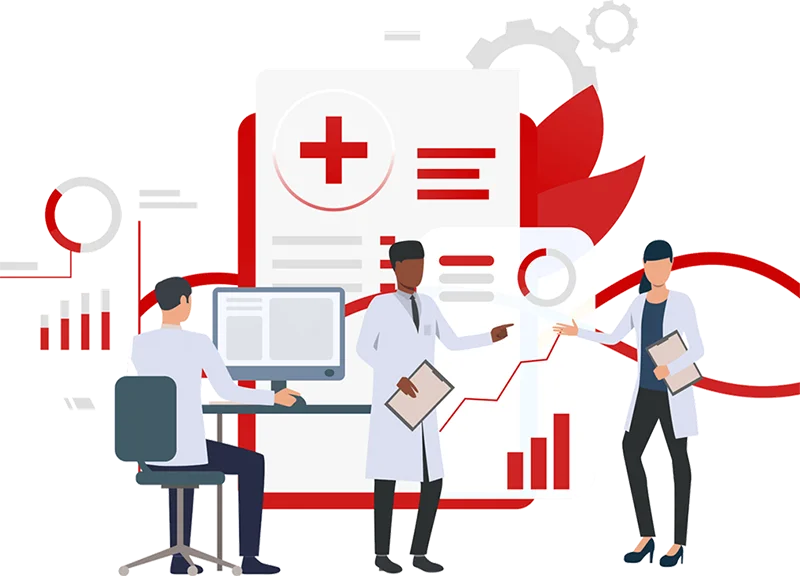
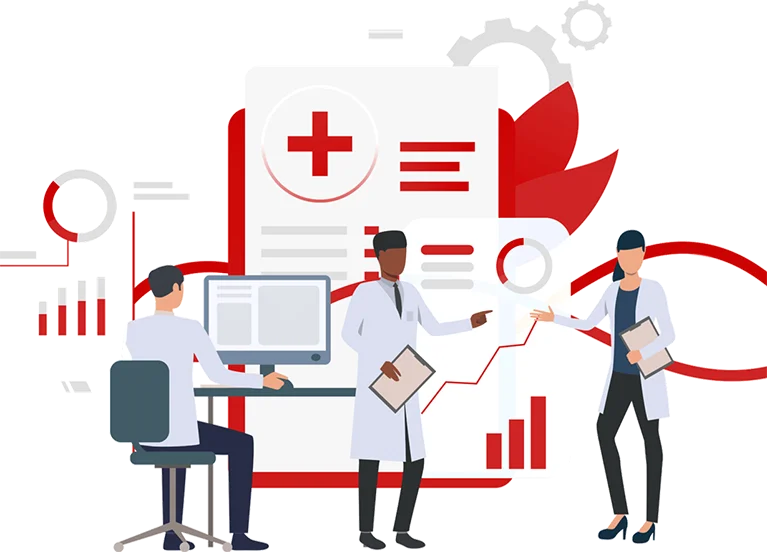
Changed image source for tablet device.

Changed region(s): [[0.3598, 0.8315, 0.4498, 0.8623], [0.5698, 0.6775, 0.6297, 0.7083], [0.5398, 0.308, 0.5997, 0.3388]]

diff --git a/docs/index.html b/docs/index.html
@@ -1,1 +1,1 @@
-<!doctype html><html lang="en"><head><meta charset="UTF-8"><meta http-equiv="X-UA-Compatible" content="IE=edge"><meta name="viewport" content="width=device-width,initial-scale=1"><title>Aviat - Sistem Informasi dan Aset Manajemen Rumah Sakit Online</title><link rel="shortcut icon" href="assets/images/aviat-logo.webp" type="image/x-icon"><link rel="stylesheet preload" href="https://cdnjs.cloudflare.com/ajax/libs/font-awesome/6.1.1/css/all.min.css" integrity="sha512-KfkfwYDsLkIlwQp6LFnl8zNdLGxu9YAA1QvwINks4PhcElQSvqcyVLLD9aMhXd13uQjoXtEKNosOWaZqXgel0g==" crossorigin="anonymous" referrerpolicy="no-referrer"/><script defer="defer" src="main.79529d04c2fa1e99ca75.js"></script><link href="styles.79529d04c2fa1e99ca75.css" rel="stylesheet"></head><body><header class="site-header"><div class="wrapper"><nav><ul class="menu"><li class="logo"><a href="#"><img src="assets/images/aviat-logo.webp"></a></li><li class="item"><a href="#">About</a></li><li class="item has-submenu"><a tabindex="0">Services</a><ul class="submenu"><li class="subitem"><a href="#">SIMRS (Sistem Informasi Manajemen Rumah Sakit)</a></li><li class="subitem"><a href="#">SIMKlinik (Sistem Informasi Manajemen Klinik)</a></li><li class="subitem"><a href="#">SIREM (Sistem Penyimpanan Dokumen Digital Rekam Medis)</a></li><li class="subitem"><a href="#">Aviat Telemedis</a></li><li class="subitem"><a href="#">Aviat AI for Health</a></li><li class="subitem"><a href="#">Kioska</a></li></ul></li><li class="item"><a href="#">Blog</a></li><li class="item"><a href="#">Contact</a></li><li class="item"><a href="#"><i class="fa-solid fa-search"></i></a></li><li class="item button"><a class="btn" href="#">Preview Modul</a></li><li class="item button secondary"><a class="btn" href="#">Request Demo</a></li><li class="toggle"><a href="#"><i class="fas fa-bars"></i></a></li></ul></nav></div></header><div class="large-hero page-section"><picture></picture><div class="wrapper"><div class="row"><div class="row__medium-6"><h1 class="large-hero__title">The Best Solution for Your Healthcare Information System</h1><p class="large-hero__description">AVIAT adalah sebuah Sistem Manajemen Rumah Sakit yang terintegrasi dan mampu mendukung keseluruhan proses yang ada dalam pelayanan rumah sakit.</p><div class="large-hero__cta"><a href="#" class="btn btn--red btn--large">Selengkapnya</a></div></div><div class="row__medium-6"><picture><source srcset="assets/images/aviat-home--desktop.webp 1010w" media="(min-width: 1010px)"><source srcset="assets/images/aviat-home--tablet.webp 800w" media="(min-width: 800px)"><img srcset="assets/images/aviat-home--smartphone.webp 530w" alt="Aviat - Sistem Informasi Manajemen Rumah Sakit"></picture></div></div></div></div><div class="site-service page-section"><div class="wrapper"><div class="row"><h2 class="headline headline--centered">Layanan <strong>Aviat</strong></h2><div class="row__medium-4"><div class="service"><div class="service__icon"><img src="assets/images/aviat-simrs.webp" alt=""></div><h3 class="service__title">Aviat SIMRS</h3><p class="service__description">Sistem Informasi Manajemen Rumah Sakit</p></div></div><div class="row__medium-4"><div class="service"><div class="service__icon"><img src="assets/images/aviat-simklinik.webp" alt=""></div><h3 class="service__title">Aviat SIMKlinik</h3><p class="service__description">Sistem Informasi Manajemen Klinik</p></div></div><div class="row__medium-4"><div class="service"><div class="service__icon"><img src="assets/images/aviat-sirem.webp" alt=""></div><h3 class="service__title">SIREM</h3><p class="service__description">Sistem Informasi Rekam Medis</p></div></div></div><div class="row"><div class="row__medium-4"><div class="service"><div class="service__icon"><img src="assets/images/aviat-telemedis.webp" alt=""></div><h3 class="service__title">Aviat Telemedis</h3><p class="service__description">Telekonsultasi untuk Layanan Kesehatan</p></div></div><div class="row__medium-4"><div class="service"><div class="service__icon"><img src="assets/images/aviat-ai.webp" alt=""></div><h3 class="service__title">Aviat AI for Health</h3><p class="service__description">Kecerdasan Buatan (AI) untuk Radiologi</p></div></div><div class="row__medium-4"><div class="service"><div class="service__icon"><img src="assets/images/aviat-kioska.webp" alt=""></div><h3 class="service__title">Kioska</h3><p class="service__description">Alat Antrean</p></div></div></div></div></div><div class="site-blog page-section"><div class="wrapper"><div class="row"><h2 class="headline headline--centered">Blog</h2><div class="row__large-4"><article class="post"><a href="" class="post__thumbnail"><div class="post__thumbnail-inner"><img src="assets/images/blogpost-1.webp" alt=""></div></a><div class="post__content"><a href="#"><h2>Manajemen Pelayanan Kesehatan Efisien dengan Fitur Business Intelligence AVIAT</h2></a><p>Lorem, ipsum dolor sit amet consectetur adipisicing elit. Libero doloremque expedita rerum tempora dolorum odio distinctio blanditiis, consequatur ducimus quod repellendus itaque autem. Ipsa tenetur nemo est maxime distinctio iste?</p><a href="#" class="post__more">Read More</a></div></article></div><div class="row__large-4"><article class="post"><a href="" class="post__thumbnail"><div class="post__thumbnail-inner"><img src="assets/images/blogpost-2.webp" alt=""></div></a><div class="post__content"><a href="#"><h2>Tingkatkan Keunggulan Rumah Sakit Anda dengan Healthcare Business Intelligence</h2></a><p>Lorem, ipsum dolor sit amet consectetur adipisicing elit. Libero doloremque expedita rerum tempora dolorum odio distinctio blanditiis, consequatur ducimus quod repellendus itaque autem. Ipsa tenetur nemo est maxime distinctio iste?</p><a href="#" class="post__more">Read More</a></div></article></div><div class="row__large-4"><article class="post"><a href="" class="post__thumbnail"><div class="post__thumbnail-inner"><img src="assets/images/blogpost-1.webp" alt=""></div></a><div class="post__content"><a href="#"><h2>Manajemen Pelayanan Kesehatan Efisien dengan Fitur Business Intelligence AVIAT</h2></a><p>Lorem, ipsum dolor sit amet consectetur adipisicing elit. Libero doloremque expedita rerum tempora dolorum odio distinctio blanditiis, consequatur ducimus quod repellendus itaque autem. Ipsa tenetur nemo est maxime distinctio iste?</p><a href="#" class="post__more">Read More</a></div></article></div></div></div></div><div class="site-partner page-section"><div class="wrapper"><div class="row"><h2 class="headline">Partnership</h2><div class="row__medium-6 row__small-6"><div class="partner partner--1"><picture><img src="assets/images/bni-syariah.webp" alt=""></picture></div></div><div class="row__medium-6 row__small-6"><div class="partner partner--2"><picture><img src="assets/images/solusi-cipta-integrasi.webp" alt=""></picture></div></div></div></div></div><div class="site-client page-section"><div class="wrapper"><div class="row"><h2 class="headline">Klien</h2><div class="row__medium-12"><div class="partner"><picture><img src="assets/images/aviat-client-1.webp" alt=""></picture></div></div></div></div></div><div class="site-widget page-section page-section--red"><div class="wrapper"><div class="row row--gutters"><div class="row__large-4"><div class="widget-1"><div class="widget-content"><h3 class="haedline headline--widget">Powered by</h3><img src="assets/images/kp3.webp" alt=""></div><div class="widget-content"><h3 class="haedline headline--widget">Follow Us</h3><div class="site-widget__socials"><a href="https://www.facebook.com/aviatindonesia"><i class="fa-brands fa-facebook-square"></i></a> <a href="https://www.instagram.com/aviat.id/"><i class="fa-brands fa-instagram"></i></a> <a href="https://www.linkedin.com/showcase/aviat-id/"><i class="fa-brands fa-linkedin"></i></a></div></div></div></div><div class="row__large-4"><div class="widget-2"><div class="widget-content"><h3 class="haedline headline--widget">Certificate</h3><p>No. QSC 01666</p><img src="assets/images/iso-9001.webp" alt=""><p><a href="#" class="btn btn--dark"><i class="fa-solid fa-download"></i> Company Profile</a></p></div></div></div><div class="row__large-4"><div class="widget-3"><div class="widget-content widget-content--last-widget"><h3 class="haedline headline--widget">Contact Us</h3><ul><li class="address"><a href="https://g.page/kapetiga?share"><i class="fa-solid fa-location-dot"></i><div class="text-adress">Jl. Kebagusan Raya No. 192, Kebagusan, Pasar Minggu, Jakarta Selatan 12520</div></a></li><li class="phone"><a href="tel:02178838951"><i class="fa-solid fa-phone"></i><div class="text-phone">Telp: +62-21-78838951</div></a></li><li class="email"><a href="mailto:marketing@kp3.co.id"><i class="fa-solid fa-envelope"></i><div class="text-email">Email: marketing@kp3.co.id</div></a></li></ul></div></div></div></div></div></div><footer class="site-footer"><div class="wrapper"><p class="site-footer__text"></p><p>© 2022 <a href="https://kp3.co.id">PT Karya Prima Putera Perkasa</a>. All Rights Reserved.</p><p></p></div></footer></body></html>
+<!doctype html><html lang="en"><head><meta charset="UTF-8"><meta http-equiv="X-UA-Compatible" content="IE=edge"><meta name="viewport" content="width=device-width,initial-scale=1"><title>Aviat - Sistem Informasi dan Aset Manajemen Rumah Sakit Online</title><link rel="shortcut icon" href="assets/images/aviat-logo.webp" type="image/x-icon"><link rel="stylesheet preload" href="https://cdnjs.cloudflare.com/ajax/libs/font-awesome/6.1.1/css/all.min.css" integrity="sha512-KfkfwYDsLkIlwQp6LFnl8zNdLGxu9YAA1QvwINks4PhcElQSvqcyVLLD9aMhXd13uQjoXtEKNosOWaZqXgel0g==" crossorigin="anonymous" referrerpolicy="no-referrer"/><script defer="defer" src="main.79529d04c2fa1e99ca75.js"></script><link href="styles.79529d04c2fa1e99ca75.css" rel="stylesheet"></head><body><header class="site-header"><div class="wrapper"><nav><ul class="menu"><li class="logo"><a href="#"><img src="assets/images/aviat-logo.webp"></a></li><li class="item"><a href="#">About</a></li><li class="item has-submenu"><a tabindex="0">Services</a><ul class="submenu"><li class="subitem"><a href="#">SIMRS (Sistem Informasi Manajemen Rumah Sakit)</a></li><li class="subitem"><a href="#">SIMKlinik (Sistem Informasi Manajemen Klinik)</a></li><li class="subitem"><a href="#">SIREM (Sistem Penyimpanan Dokumen Digital Rekam Medis)</a></li><li class="subitem"><a href="#">Aviat Telemedis</a></li><li class="subitem"><a href="#">Aviat AI for Health</a></li><li class="subitem"><a href="#">Kioska</a></li></ul></li><li class="item"><a href="#">Blog</a></li><li class="item"><a href="#">Contact</a></li><li class="item"><a href="#"><i class="fa-solid fa-search"></i></a></li><li class="item button"><a class="btn" href="#">Preview Modul</a></li><li class="item button secondary"><a class="btn" href="#">Request Demo</a></li><li class="toggle"><a href="#"><i class="fas fa-bars"></i></a></li></ul></nav></div></header><div class="large-hero page-section"><picture></picture><div class="wrapper"><div class="row"><div class="row__medium-6"><h1 class="large-hero__title">The Best Solution for Your Healthcare Information System</h1><p class="large-hero__description">AVIAT adalah sebuah Sistem Manajemen Rumah Sakit yang terintegrasi dan mampu mendukung keseluruhan proses yang ada dalam pelayanan rumah sakit.</p><div class="large-hero__cta"><a href="#" class="btn btn--red btn--large">Selengkapnya</a></div></div><div class="row__medium-6"><picture><source srcset="assets/images/aviat-home--desktop.webp 1010w" media="(min-width: 1010px)"><source srcset="assets/images/aviat-home--tablet.webp 767w" media="(min-width: 767px)"><img srcset="assets/images/aviat-home--smartphone.webp 530w" alt="Aviat - Sistem Informasi Manajemen Rumah Sakit"></picture></div></div></div></div><div class="site-service page-section"><div class="wrapper"><div class="row"><h2 class="headline headline--centered">Layanan <strong>Aviat</strong></h2><div class="row__medium-4"><div class="service"><div class="service__icon"><img src="assets/images/aviat-simrs.webp" alt=""></div><h3 class="service__title">Aviat SIMRS</h3><p class="service__description">Sistem Informasi Manajemen Rumah Sakit</p></div></div><div class="row__medium-4"><div class="service"><div class="service__icon"><img src="assets/images/aviat-simklinik.webp" alt=""></div><h3 class="service__title">Aviat SIMKlinik</h3><p class="service__description">Sistem Informasi Manajemen Klinik</p></div></div><div class="row__medium-4"><div class="service"><div class="service__icon"><img src="assets/images/aviat-sirem.webp" alt=""></div><h3 class="service__title">SIREM</h3><p class="service__description">Sistem Informasi Rekam Medis</p></div></div></div><div class="row"><div class="row__medium-4"><div class="service"><div class="service__icon"><img src="assets/images/aviat-telemedis.webp" alt=""></div><h3 class="service__title">Aviat Telemedis</h3><p class="service__description">Telekonsultasi untuk Layanan Kesehatan</p></div></div><div class="row__medium-4"><div class="service"><div class="service__icon"><img src="assets/images/aviat-ai.webp" alt=""></div><h3 class="service__title">Aviat AI for Health</h3><p class="service__description">Kecerdasan Buatan (AI) untuk Radiologi</p></div></div><div class="row__medium-4"><div class="service"><div class="service__icon"><img src="assets/images/aviat-kioska.webp" alt=""></div><h3 class="service__title">Kioska</h3><p class="service__description">Alat Antrean</p></div></div></div></div></div><div class="site-blog page-section"><div class="wrapper"><div class="row"><h2 class="headline headline--centered">Blog</h2><div class="row__large-4"><article class="post"><a href="" class="post__thumbnail"><div class="post__thumbnail-inner"><img src="assets/images/blogpost-1.webp" alt=""></div></a><div class="post__content"><a href="#"><h2>Manajemen Pelayanan Kesehatan Efisien dengan Fitur Business Intelligence AVIAT</h2></a><p>Lorem, ipsum dolor sit amet consectetur adipisicing elit. Libero doloremque expedita rerum tempora dolorum odio distinctio blanditiis, consequatur ducimus quod repellendus itaque autem. Ipsa tenetur nemo est maxime distinctio iste?</p><a href="#" class="post__more">Read More</a></div></article></div><div class="row__large-4"><article class="post"><a href="" class="post__thumbnail"><div class="post__thumbnail-inner"><img src="assets/images/blogpost-2.webp" alt=""></div></a><div class="post__content"><a href="#"><h2>Tingkatkan Keunggulan Rumah Sakit Anda dengan Healthcare Business Intelligence</h2></a><p>Lorem, ipsum dolor sit amet consectetur adipisicing elit. Libero doloremque expedita rerum tempora dolorum odio distinctio blanditiis, consequatur ducimus quod repellendus itaque autem. Ipsa tenetur nemo est maxime distinctio iste?</p><a href="#" class="post__more">Read More</a></div></article></div><div class="row__large-4"><article class="post"><a href="" class="post__thumbnail"><div class="post__thumbnail-inner"><img src="assets/images/blogpost-1.webp" alt=""></div></a><div class="post__content"><a href="#"><h2>Manajemen Pelayanan Kesehatan Efisien dengan Fitur Business Intelligence AVIAT</h2></a><p>Lorem, ipsum dolor sit amet consectetur adipisicing elit. Libero doloremque expedita rerum tempora dolorum odio distinctio blanditiis, consequatur ducimus quod repellendus itaque autem. Ipsa tenetur nemo est maxime distinctio iste?</p><a href="#" class="post__more">Read More</a></div></article></div></div></div></div><div class="site-partner page-section"><div class="wrapper"><div class="row"><h2 class="headline">Partnership</h2><div class="row__medium-6 row__small-6"><div class="partner partner--1"><picture><img src="assets/images/bni-syariah.webp" alt=""></picture></div></div><div class="row__medium-6 row__small-6"><div class="partner partner--2"><picture><img src="assets/images/solusi-cipta-integrasi.webp" alt=""></picture></div></div></div></div></div><div class="site-client page-section"><div class="wrapper"><div class="row"><h2 class="headline">Klien</h2><div class="row__medium-12"><div class="partner"><picture><img src="assets/images/aviat-client-1.webp" alt=""></picture></div></div></div></div></div><div class="site-widget page-section page-section--red"><div class="wrapper"><div class="row row--gutters"><div class="row__large-4"><div class="widget-1"><div class="widget-content"><h3 class="haedline headline--widget">Powered by</h3><img src="assets/images/kp3.webp" alt=""></div><div class="widget-content"><h3 class="haedline headline--widget">Follow Us</h3><div class="site-widget__socials"><a href="https://www.facebook.com/aviatindonesia"><i class="fa-brands fa-facebook-square"></i></a> <a href="https://www.instagram.com/aviat.id/"><i class="fa-brands fa-instagram"></i></a> <a href="https://www.linkedin.com/showcase/aviat-id/"><i class="fa-brands fa-linkedin"></i></a></div></div></div></div><div class="row__large-4"><div class="widget-2"><div class="widget-content"><h3 class="haedline headline--widget">Certificate</h3><p>No. QSC 01666</p><img src="assets/images/iso-9001.webp" alt=""><p><a href="#" class="btn btn--dark"><i class="fa-solid fa-download"></i> Company Profile</a></p></div></div></div><div class="row__large-4"><div class="widget-3"><div class="widget-content widget-content--last-widget"><h3 class="haedline headline--widget">Contact Us</h3><ul><li class="address"><a href="https://g.page/kapetiga?share"><i class="fa-solid fa-location-dot"></i><div class="text-adress">Jl. Kebagusan Raya No. 192, Kebagusan, Pasar Minggu, Jakarta Selatan 12520</div></a></li><li class="phone"><a href="tel:02178838951"><i class="fa-solid fa-phone"></i><div class="text-phone">Telp: +62-21-78838951</div></a></li><li class="email"><a href="mailto:marketing@kp3.co.id"><i class="fa-solid fa-envelope"></i><div class="text-email">Email: marketing@kp3.co.id</div></a></li></ul></div></div></div></div></div></div><footer class="site-footer"><div class="wrapper"><p class="site-footer__text"></p><p>© 2022 <a href="https://kp3.co.id">PT Karya Prima Putera Perkasa</a>. All Rights Reserved.</p><p></p></div></footer></body></html>

diff --git a/app/index.html b/app/index.html
@@ -55,7 +55,7 @@
                 <div class="row__medium-6">
                     <picture>
                         <source srcset="assets/images/aviat-home--desktop.webp 1010w" media="(min-width: 1010px)">
-                        <source srcset="assets/images/aviat-home--tablet.webp 800w" media="(min-width: 800px)">
+                        <source srcset="assets/images/aviat-home--tablet.webp 767w" media="(min-width: 767px)">
                         <img srcset="assets/images/aviat-home--smartphone.webp 530w" alt="Aviat - Sistem Informasi Manajemen Rumah Sakit">
                       </picture>
                 </div>
